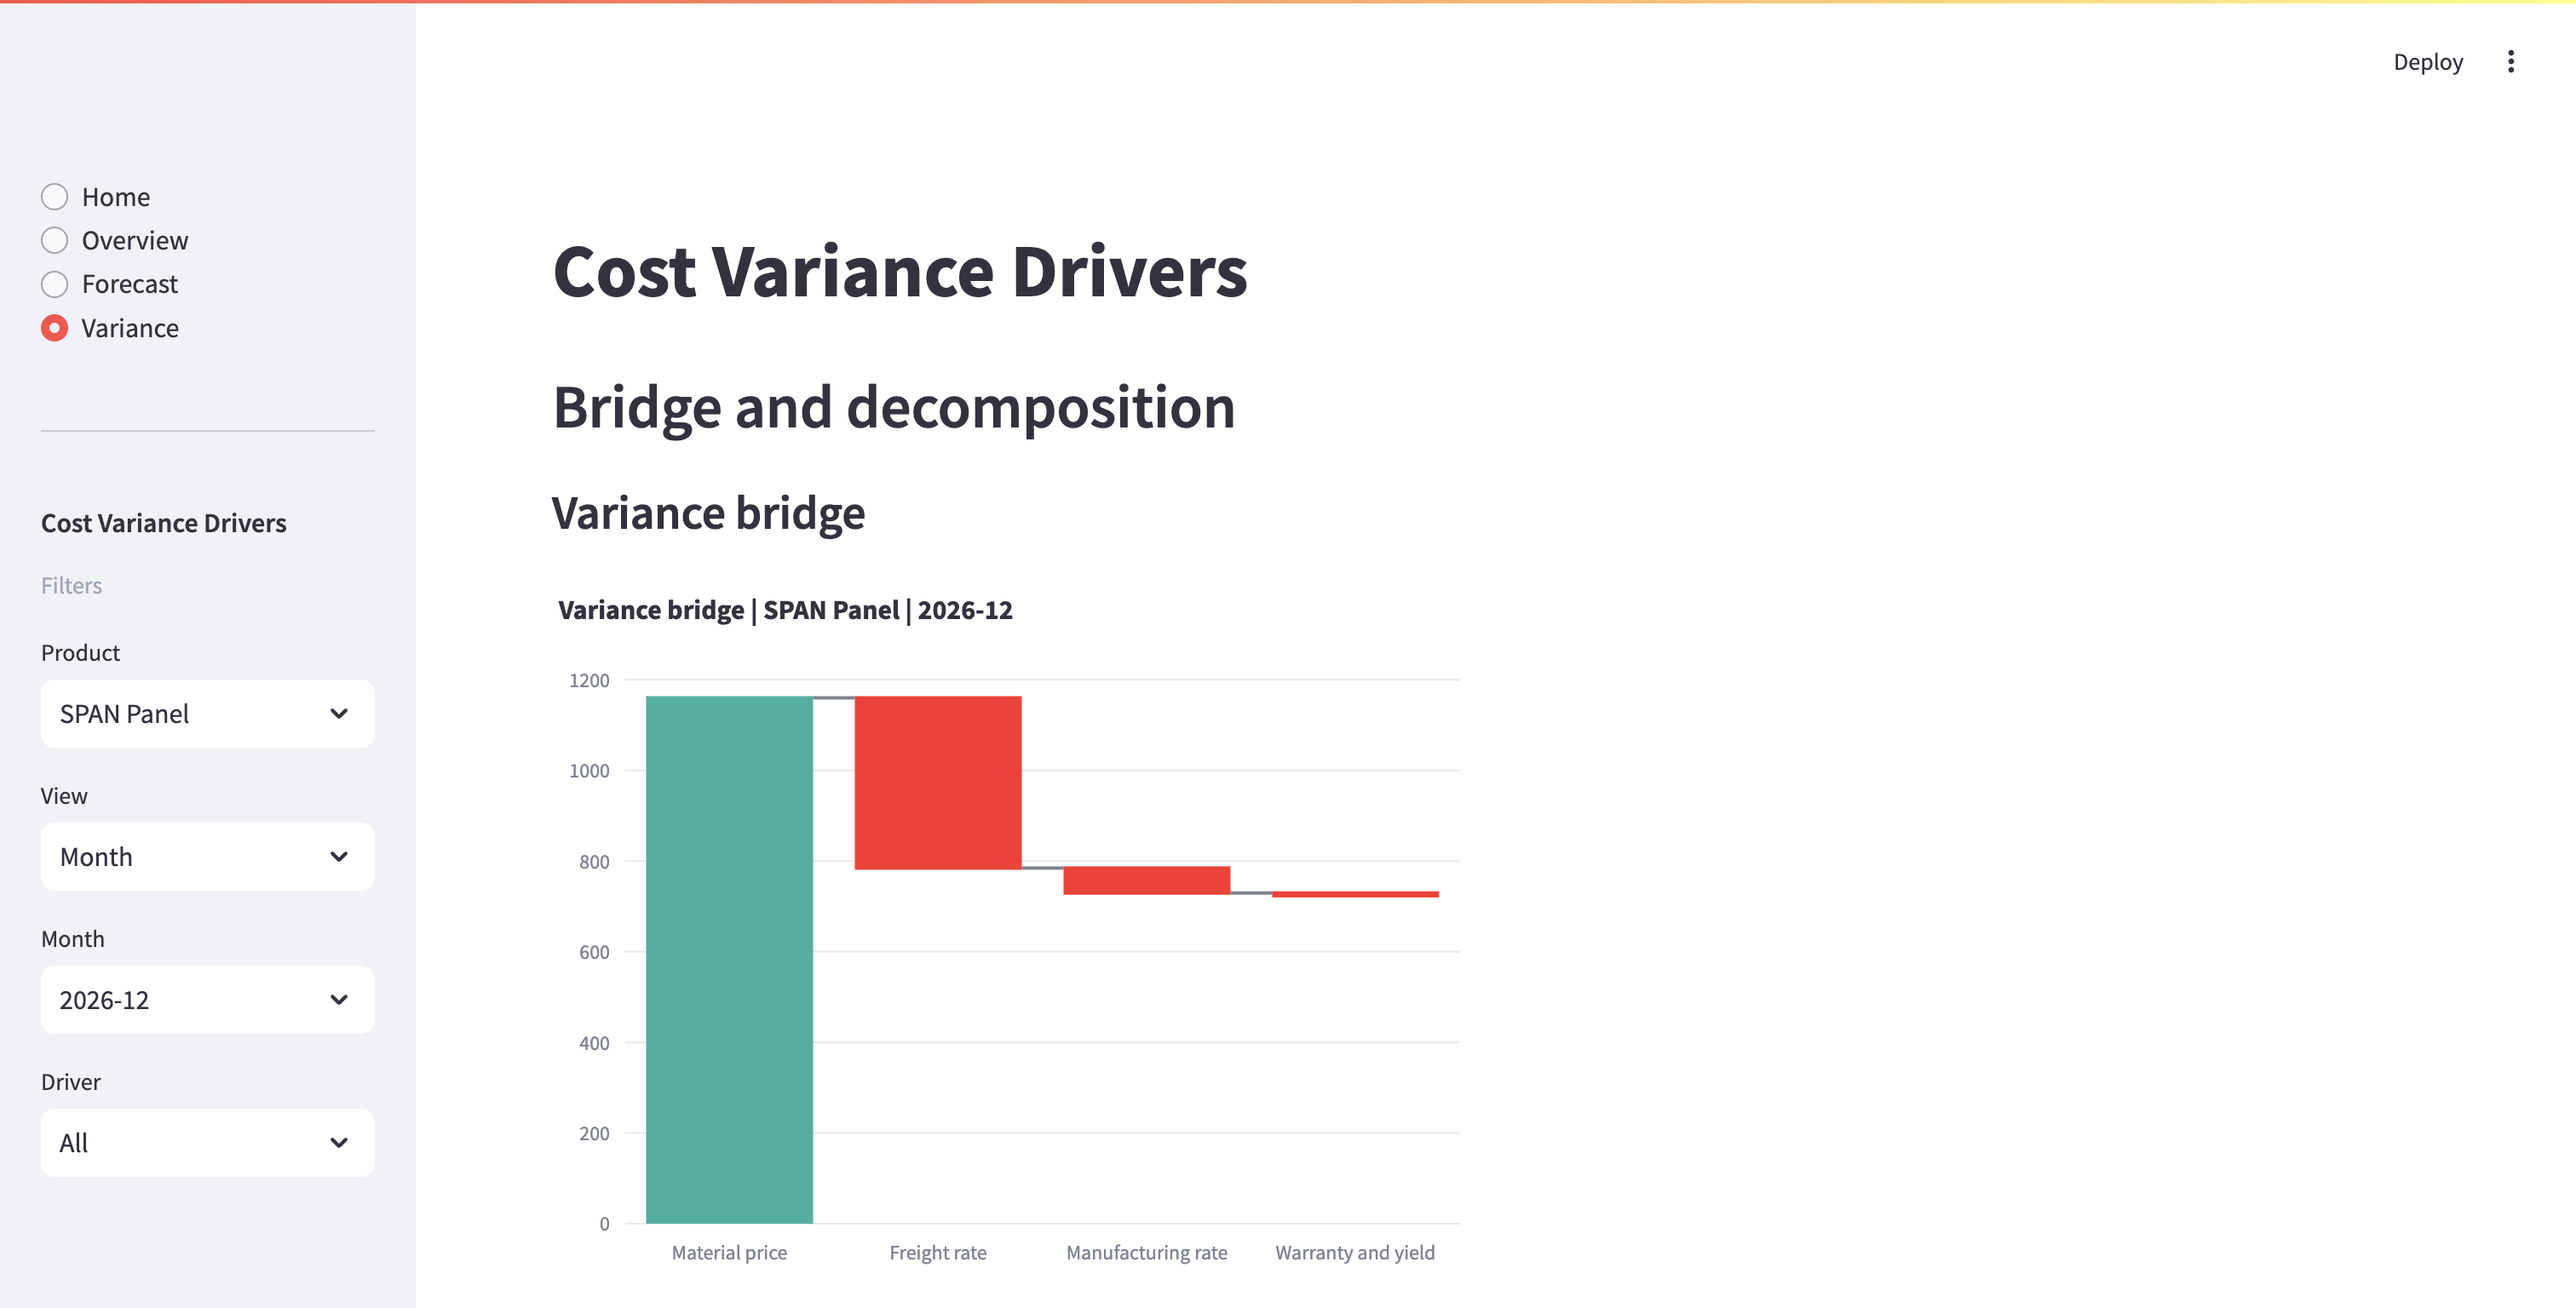
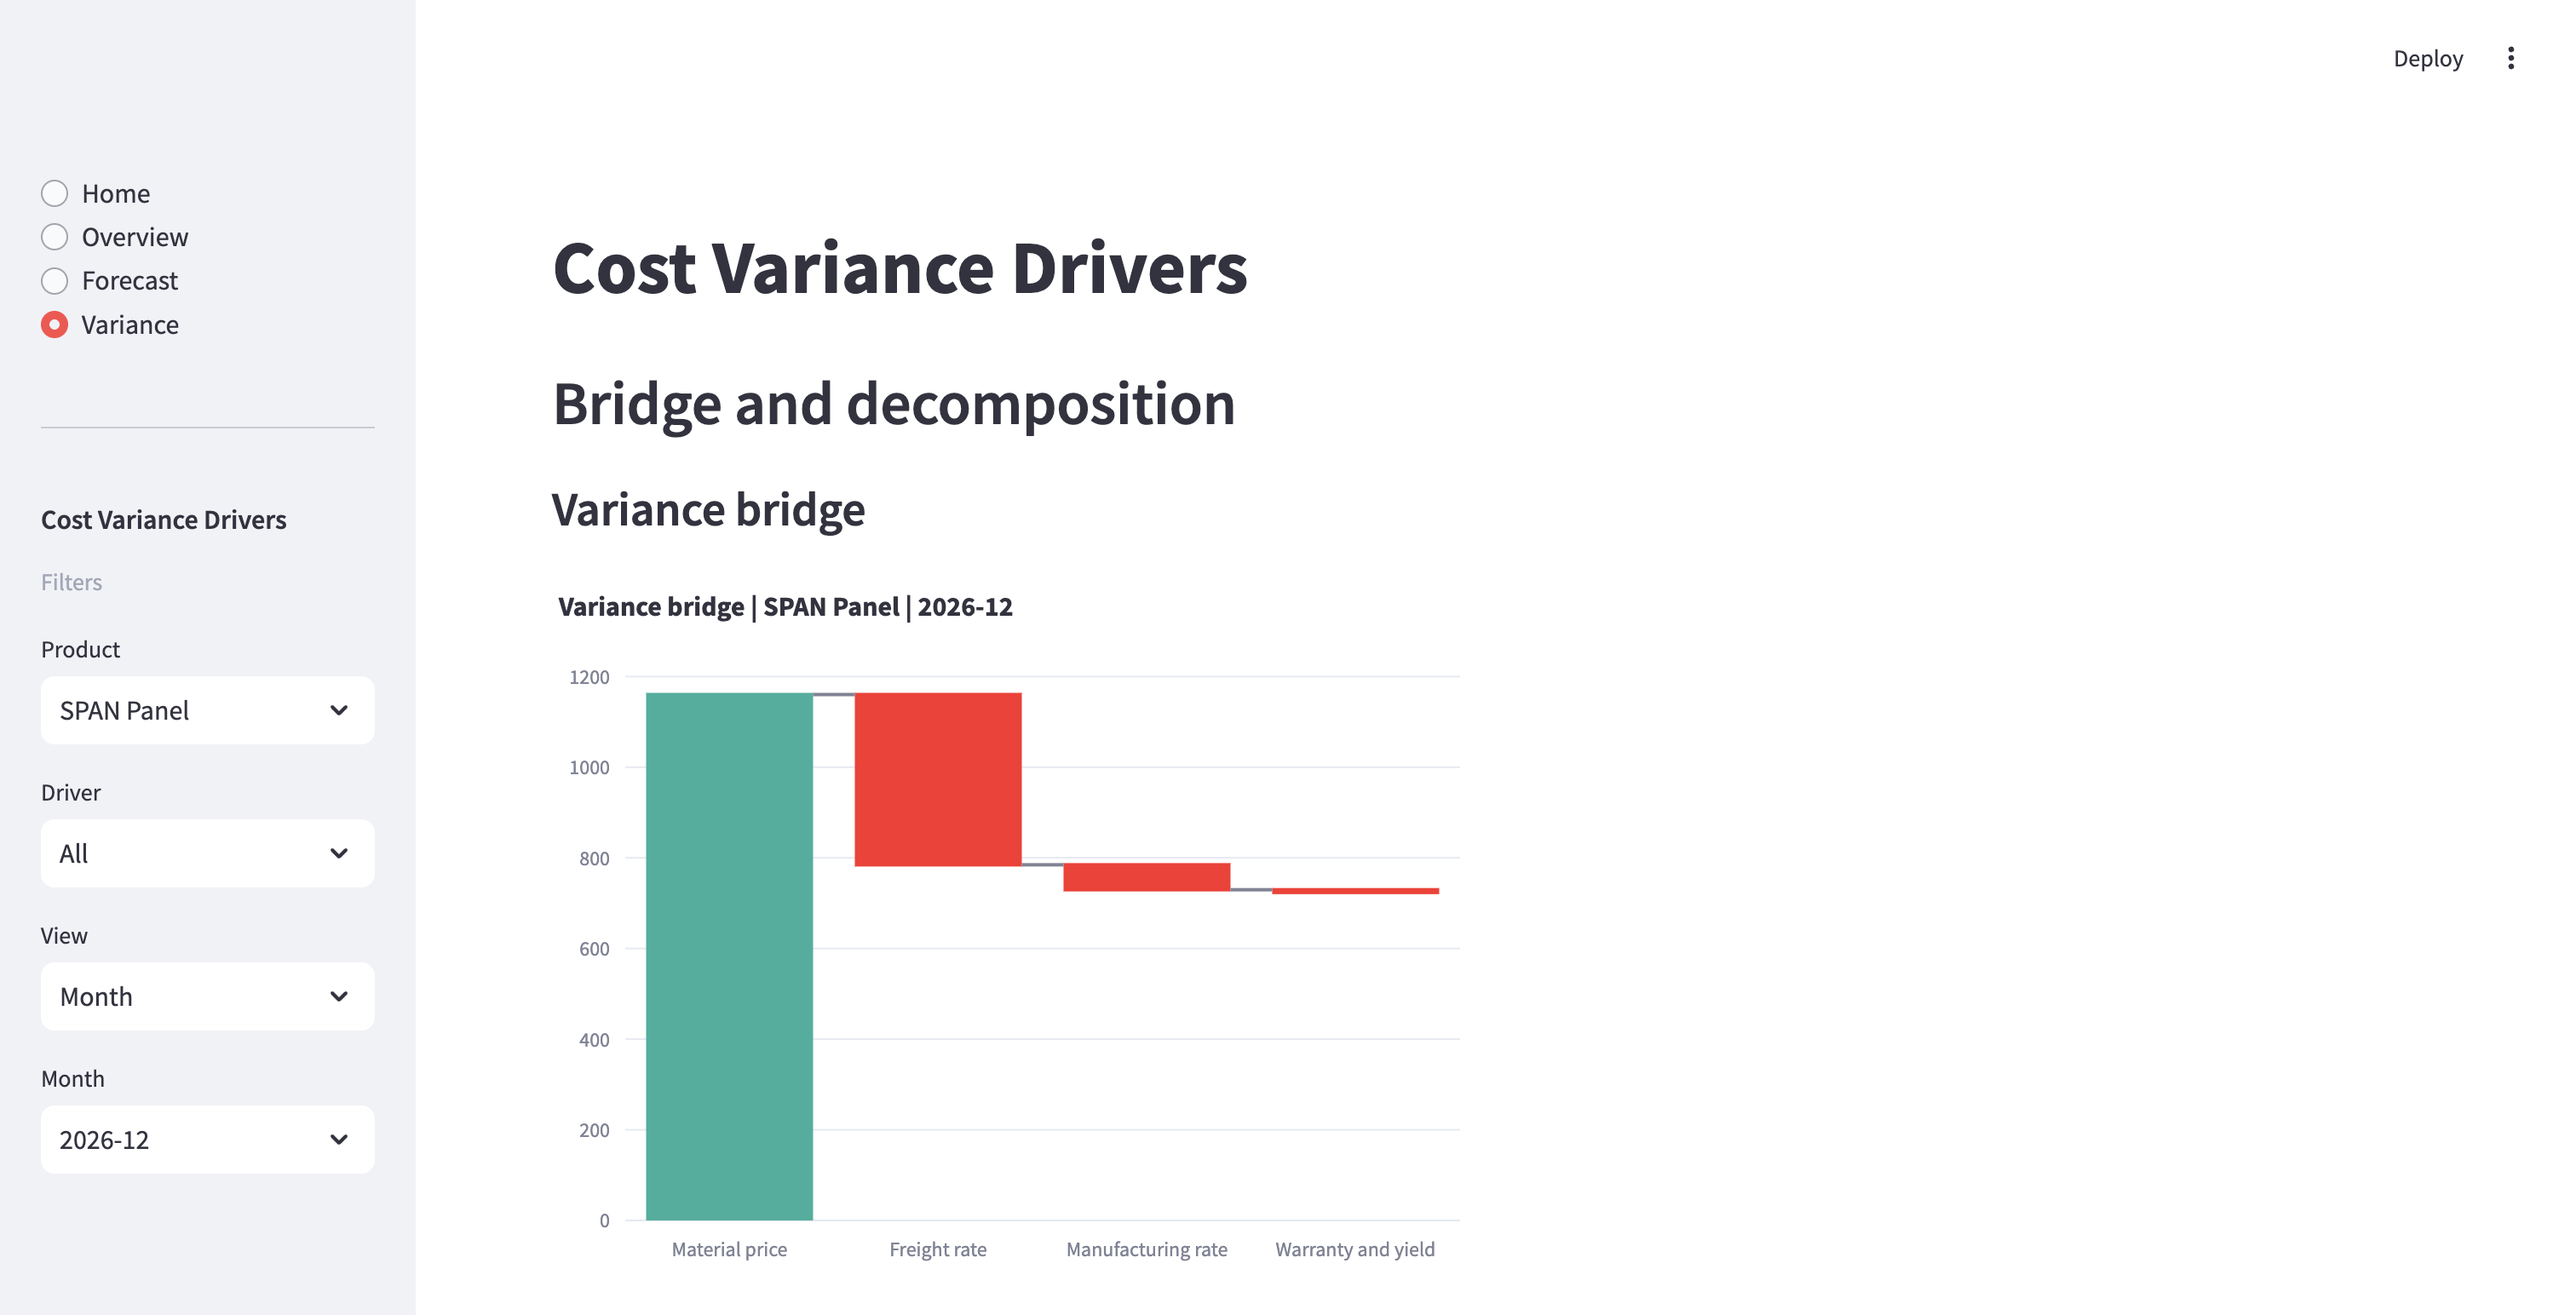
span

diff --git a/pages/03_Cost_Variance_Drivers.py b/pages/03_Cost_Variance_Drivers.py
@@ -76,25 +76,31 @@ if bridge.empty or "month" not in bridge.columns:
     st.stop()
 
 products = sorted(bridge["product_name"].dropna().unique().tolist()) if "product_name" in bridge.columns else []
-
 if not products:
     st.info("No data available to render this dashboard yet")
     st.stop()
 
+
 with filters:
-    # product on top + All
+    # 1) Product on top + All
     product_sel = st.selectbox("Product", ["All"] + products, index=0)
 
-    # filter for valid period options
+    # product-filtered bridge for driver list + period options
     bf = bridge.copy()
     if product_sel != "All" and "product_name" in bf.columns:
         bf = bf[bf["product_name"] == product_sel].copy()
 
+    # 2) Driver under product (moved here)
+    drivers_all = sorted(bf["driver"].dropna().unique().tolist()) if "driver" in bf.columns else []
+    driver_sel = st.selectbox("Driver", ["All"] + drivers_all, index=0) if drivers_all else "All"
+
+    # 3) View under driver
+    view_level = st.selectbox("View", ["Month", "Quarter", "Year"], index=0)
+
+    # period choices
     months = sorted(bf["month"].dropna().unique().tolist()) if "month" in bf.columns else []
     quarters = sorted(bf["quarter"].dropna().unique().tolist()) if "quarter" in bf.columns else []
     years = sorted(bf["year"].dropna().unique().tolist()) if "year" in bf.columns else []
-
-    view_level = st.selectbox("View", ["Month", "Quarter", "Year"], index=0)
 
     if view_level == "Month":
         if not months:
@@ -115,10 +121,8 @@ with filters:
         period_col = "year"
         period_sel = st.selectbox("Year", years, index=max(0, len(years) - 1))
 
-    drivers_all = sorted(bf["driver"].dropna().unique().tolist()) if "driver" in bf.columns else []
-    driver_sel = st.selectbox("Driver", ["All"] + drivers_all, index=0) if drivers_all else "All"
 
-# filter to selected period
+# ---- build b0/d0 first (FIX ordering bug) ----
 b0 = bridge[bridge[period_col] == period_sel].copy()
 d0 = detail[detail[period_col] == period_sel].copy()
 
@@ -290,5 +294,6 @@ with h_l:
             st.info("Heatmap not available because required columns are missing")
     except Exception:
         st.info("Heatmap not available for current data")
+
 with h_r:
     st.empty()

diff --git a/README.md b/README.md
@@ -22,7 +22,6 @@ The **Overview** page helps you quickly understand business performance at diffe
 What you can do:
 - Choose a **View** level: **Month / Quarter / Year**
 - Switch between **KPIs** and **Trends** to see summary metrics or time-series patterns
-- Use the page navigation to move between sections easily
 
 <img src="doc/Overview1.png" width="400" /> <img src="doc/Overview2.png" width="400" />
 
